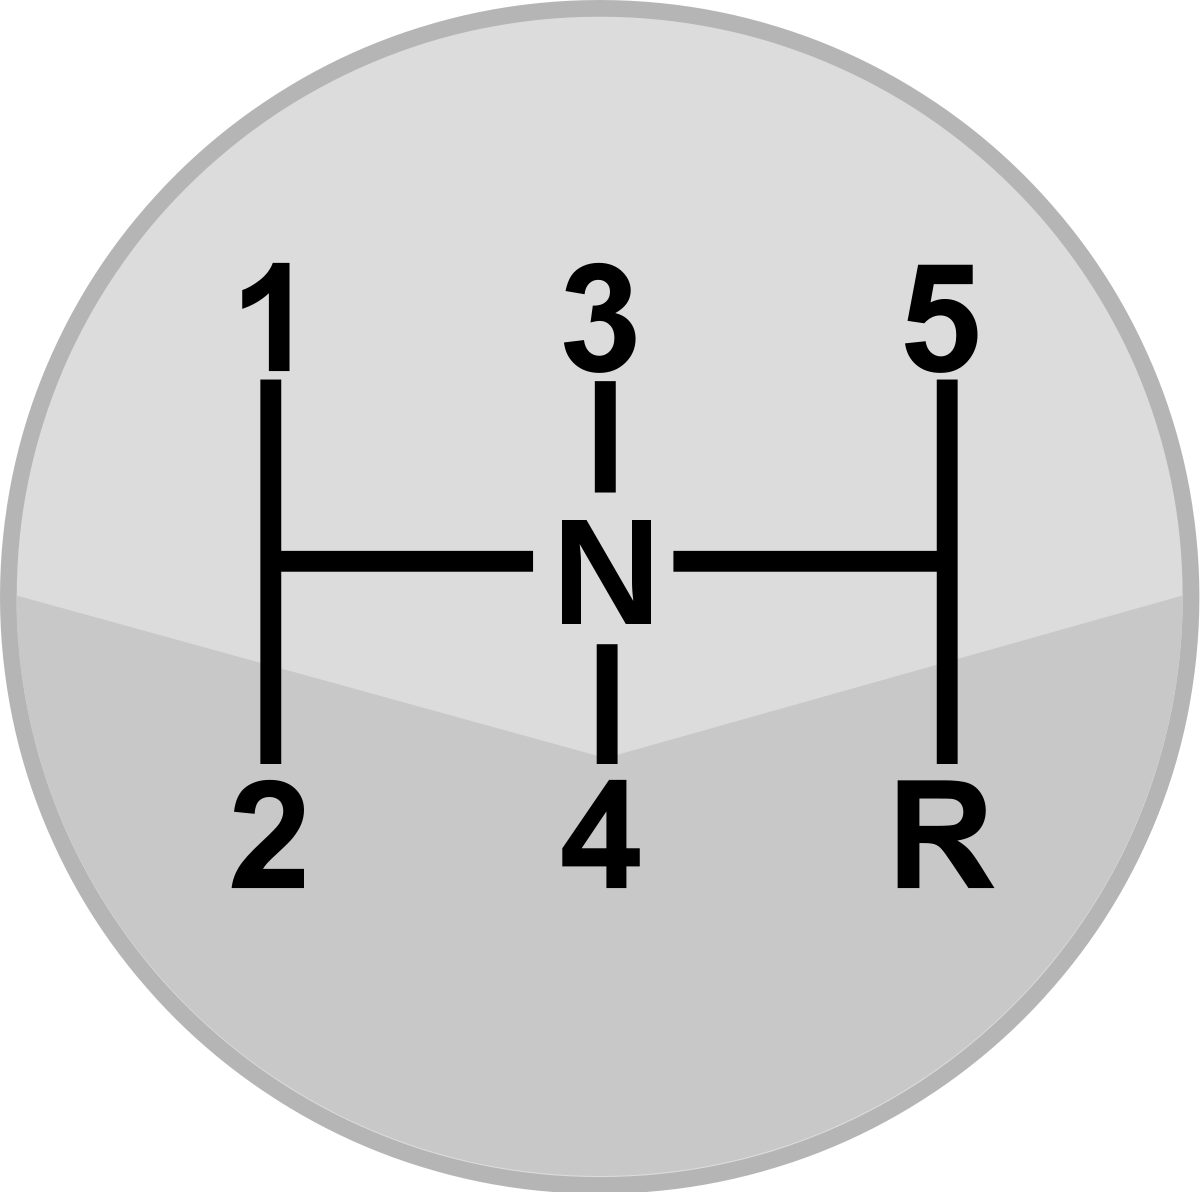
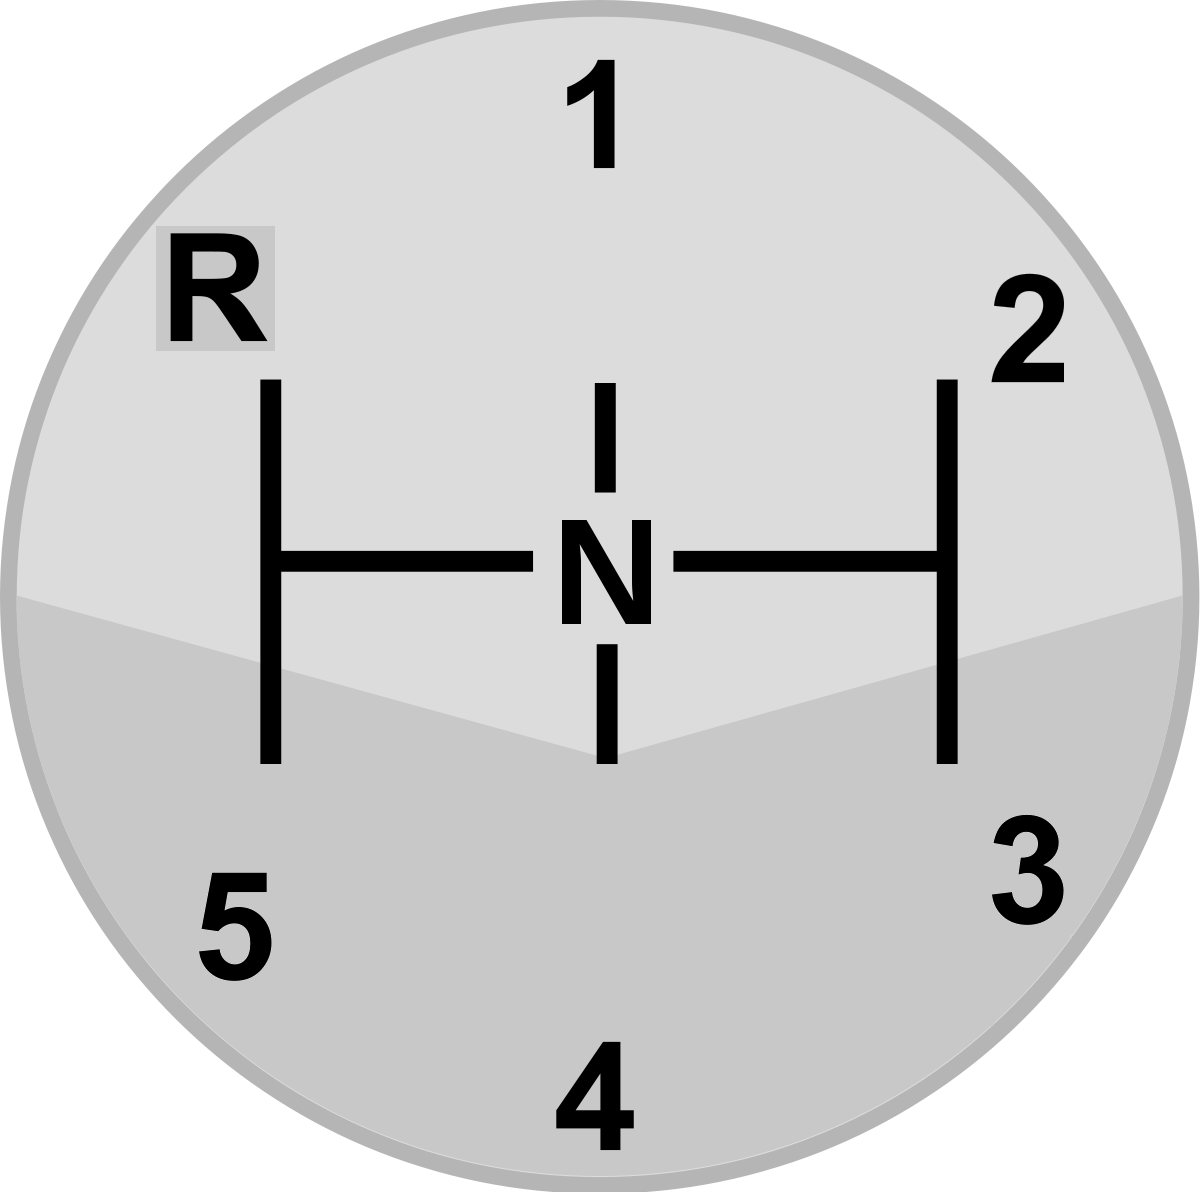
Adding car transmission system

diff --git a/Unity_Transmission/Assets/Scripts/TransmissionUI.cs b/Unity_Transmission/Assets/Scripts/TransmissionUI.cs
@@ -1,16 +1,122 @@
 using System.Collections;
 using System.Collections.Generic;
 using UnityEngine;
+using XInputDotNetPure;
 
 public class TransmissionUI : MonoBehaviour {
 
+	public Transform knob;
+	public int gearCount;
+	public Vector3 gearBoxSize;
+	public float gearBoxPadding;
+
+	private int currentGear = -1;
+	// The gear area the stick is in. we cannot switch directly to another gear
+	private int currentGearArea = -1;
+
+	private float gearRad;
+
 	// Use this for initialization
 	void Start () {
-		
+		gearRad = 360.0f / (float) gearCount * Mathf.Deg2Rad;
+		gearBoxSize = GetComponent<RectTransform> ().sizeDelta / 2 + new Vector2(gearBoxPadding, gearBoxPadding);
 	}
 	
 	// Update is called once per frame
 	void Update () {
+		GamePadState state = GamePad.GetState (PlayerController.instance.transmissionIndex);
+		GamePadThumbSticks.StickValue transmissionInput = state.ThumbSticks.Right;
+
+		if (inputStrength(transmissionInput) <= PlayerController.instance.freeGearThreshold) {
+			//Debug.LogWarning ("Input strength" + inputStrength(transmissionInput));
+			freeGearHandler (transmissionInput);
+		} else {
+			lockedGearHandler (transmissionInput);
+		}
 		
+		if (currentGear > gearCount) {
+			Debug.Log("Gear number should be between 0 and " + gearCount);
+		}
+	}
+
+	float getGearRad(int gear) {
+		return gearRad + Mathf.PI / 2 - gear*gearRad;
+	}
+
+	float inputStrength(GamePadThumbSticks.StickValue input) {
+		return Mathf.Sqrt (input.X * input.X + input.Y * input.Y);
+	}
+
+	float inputAngle(GamePadThumbSticks.StickValue input) {
+		return Mathf.Atan2 (input.Y, input.X) % (2 * Mathf.PI);
+	}
+
+	void freeGearHandler(GamePadThumbSticks.StickValue input) {
+		knob.localPosition = Vector3.Scale(new Vector3 (input.X, input.Y), gearBoxSize);
+		currentGear = -1;
+		currentGearArea = -1;
+
+		GamePad.SetVibration(PlayerController.instance.transmissionIndex, 0f, 0f);
+	}
+
+	void lockedGearHandler(GamePadThumbSticks.StickValue input) {
+		if (currentGearArea == -1) {
+			float normalizedAngle = (Mathf.PI / 2 + gearRad + 2 * Mathf.PI - inputAngle (input)) / gearRad;
+			currentGearArea = Mathf.FloorToInt(normalizedAngle + 0.5f) % gearCount;
+		}
+		Debug.Log ("Closest gear area" + currentGearArea);
+
+		float maxGearAreaAngle = getGearRad(currentGearArea) + PlayerController.instance.gearRestrictedRoamingProportion * gearRad / 2 ;
+		float minGearAreaAngle = getGearRad(currentGearArea) - PlayerController.instance.gearRestrictedRoamingProportion * gearRad / 2 ;
+
+		Debug.Log(minGearAreaAngle + ", " + inputAngle (input) + ", " + maxGearAreaAngle);
+
+		float clampedAngle = Mathf.Clamp(inputAngle(input) + 2*Mathf.PI, minGearAreaAngle + 2*Mathf.PI, maxGearAreaAngle + 2*Mathf.PI);
+
+		setTransmissionRumble(inputAngle(input) + 2 * Mathf.PI, minGearAreaAngle + 2 * Mathf.PI, maxGearAreaAngle + 2 * Mathf.PI);
+
+		knob.localPosition = Vector3.Scale(
+			new Vector3 (
+				Mathf.Cos(clampedAngle) * inputStrength(input),
+				Mathf.Sin(clampedAngle) * inputStrength(input),
+				0
+			),
+			gearBoxSize
+		);
+
+		if ( inputStrength(input) > PlayerController.instance.acceptedGearThreshold) {
+			if (currentGearArea == -1) {
+				Debug.LogError("Gear validated without valid Gear area !!!");
+			}
+			currentGear = currentGearArea;
+		}
+	}
+
+	void setTransmissionRumble(float angle, float min, float max) {
+		float powerX = 0f;
+		float powerY = 0f;
+		if (angle < min) {
+			powerY = min - angle * 0.2f;
+		}
+		if (angle > max) {
+			powerX = angle - max * 0.2f;
+		}
+
+		// We match the gearbox display
+		if ((angle % 2 * Mathf.PI - Mathf.PI) < 0) {
+			float tmp = powerX;
+			powerX = powerY;
+			powerY = tmp;
+		}
+
+		GamePad.SetVibration(
+			PlayerController.instance.transmissionIndex,
+			powerX,
+			powerY
+		);
+	}
+
+	void SelectGear() {
 	}
 }
+ 

diff --git a/Unity_Transmission/Assets/Scripts/PlayerController.cs b/Unity_Transmission/Assets/Scripts/PlayerController.cs
@@ -40,6 +40,15 @@ public class PlayerController : Singleton<PlayerController> {
 
     internal float currentSteerRotation;
 
+	[Header("Transmission")]
+	public PlayerIndex transmissionIndex;
+	[Range(0,1)]
+	public float acceptedGearThreshold = 0.8f;
+	[Range(0,1)]
+	public float freeGearThreshold = 0.4f;
+	[Range(0,1)]
+	public float gearRestrictedRoamingProportion = 0.15f;
+
     //Components
     Rigidbody rb;
 
